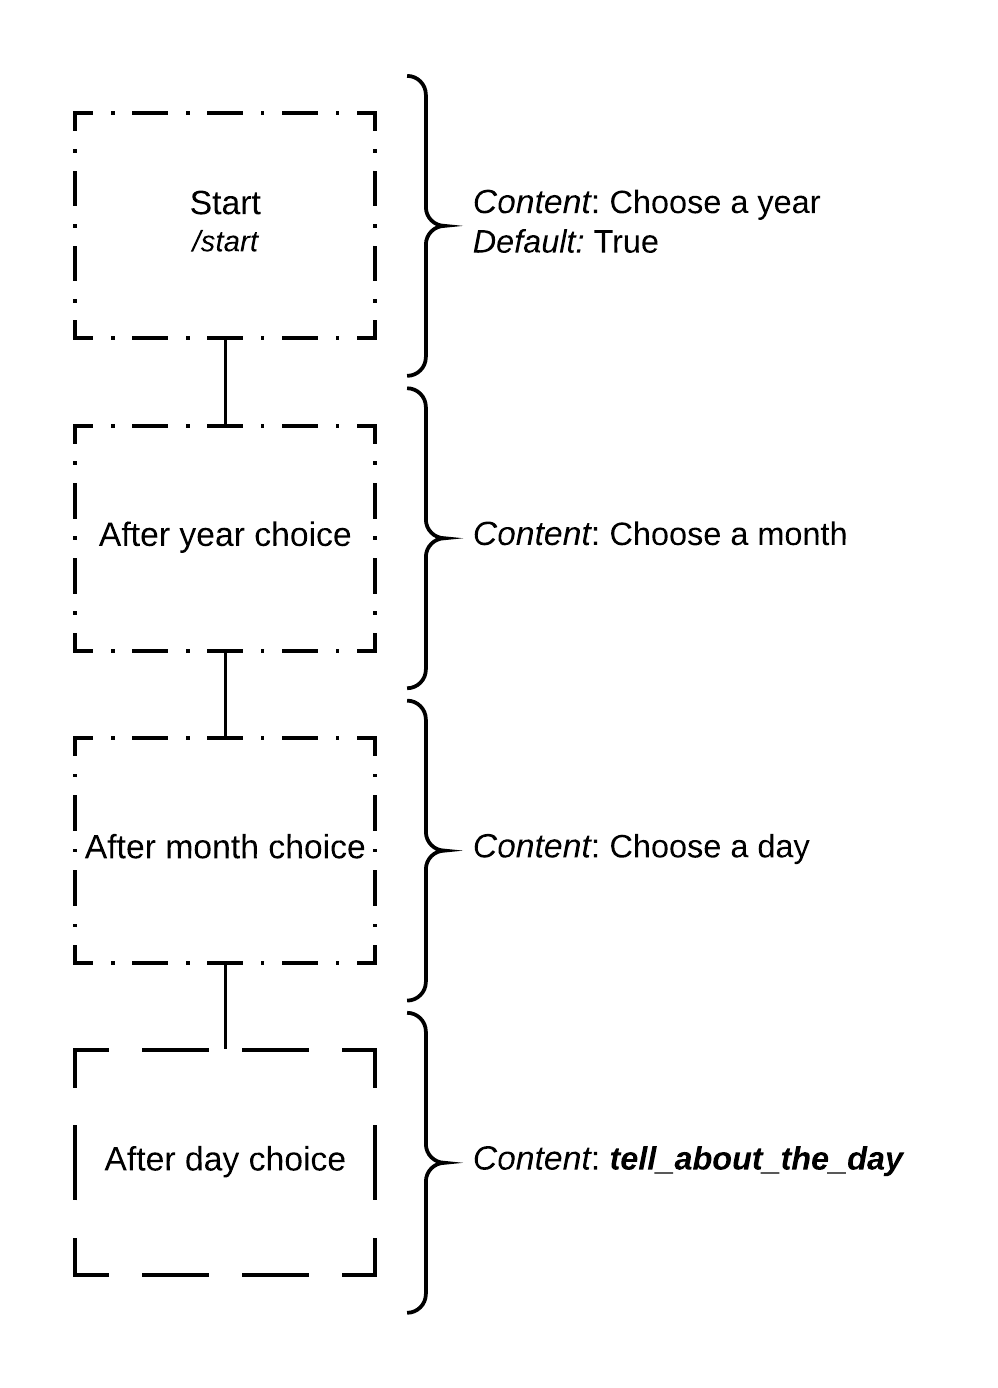
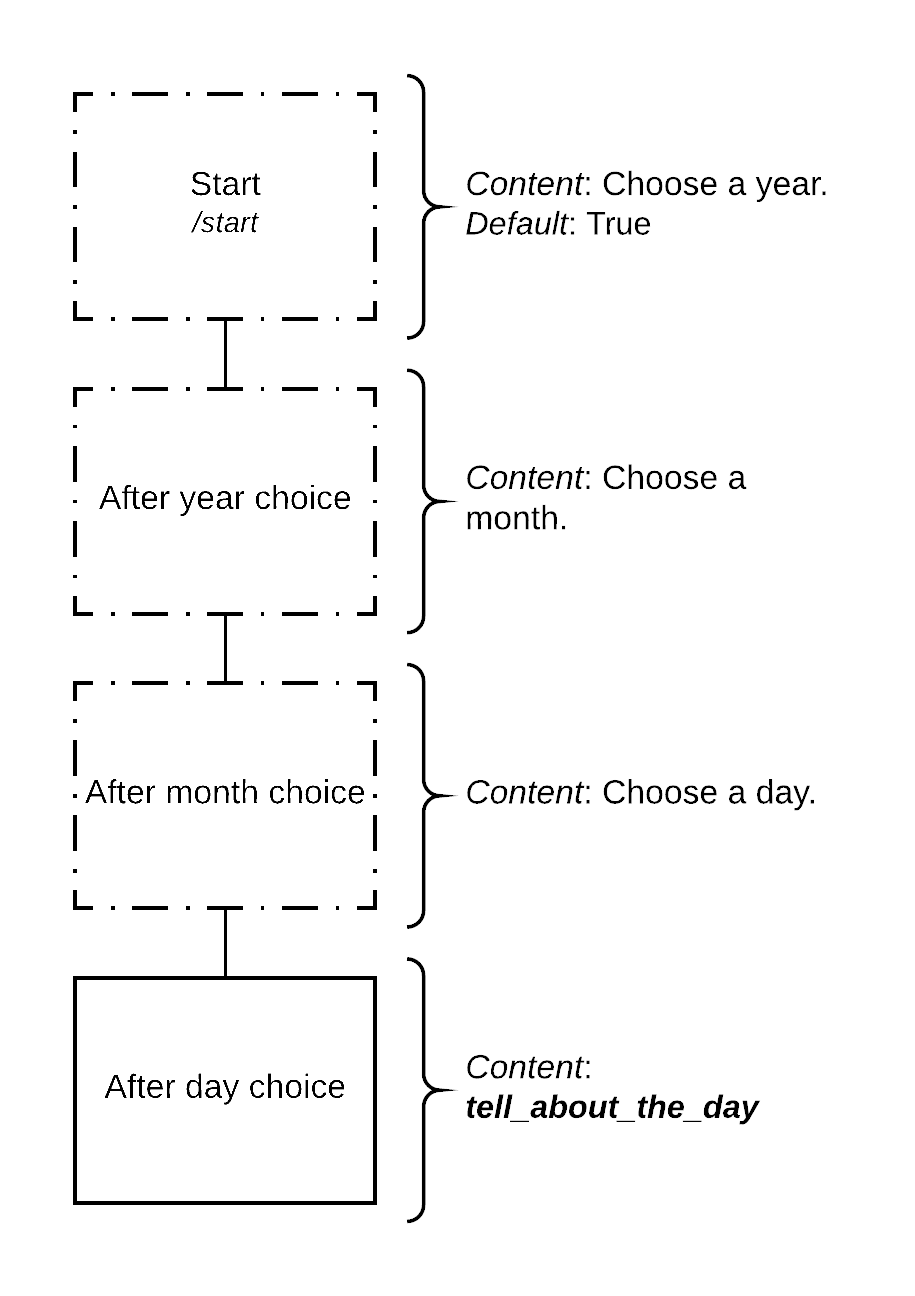
docs: flowcharts are now transparent

diff --git a/CHANGELOG.md b/CHANGELOG.md
@@ -10,10 +10,11 @@
    - Add a flowchart for `sample_bot.py` ([a698a4f1c7b85640011f861b9f2ae6ffa5dbd001](https://github.com/hearot/pyrubrum/commit/a698a4f1c7b85640011f861b9f2ae6ffa5dbd001))
    - Add a simple glossary ([0000e5ecc76f27f66833a28ef67836b5a338a353](https://github.com/hearot/pyrubrum/commit/0000e5ecc76f27f66833a28ef67836b5a338a353))
    - Add a simple quickstart menu ([3b4e5c7581ec4457bc8427068524954ec4920418](https://github.com/hearot/pyrubrum/commit/3b4e5c7581ec4457bc8427068524954ec4920418))
-   - Add a tip for opening a feature request
+   - Add a tip for opening a feature request ([909dfff2923e8b551d4500f48223659cd1d97ec4](https://github.com/hearot/pyrubrum/commit/909dfff2923e8b551d4500f48223659cd1d97ec4))
    - Add docstrings to `command_filter` and `deep_link_filter` ([b61629afa1d85f80fea4ec5030ab756d47714fea](https://github.com/hearot/pyrubrum/commit/b61629afa1d85f80fea4ec5030ab756d47714fea))
    - Add flowcharts ([c170d6aa8630e2f0575e79e0b10dcb5bab84a119](https://github.com/hearot/pyrubrum/commit/c170d6aa8630e2f0575e79e0b10dcb5bab84a119))
    - Finish writing the tutorial ([3ed75930ab0a57d84dad25880bdde86e1e7d66f4](https://github.com/hearot/pyrubrum/commit/3ed75930ab0a57d84dad25880bdde86e1e7d66f4))
+   - Flowcharts are now transparent
    - Include examples in the toctree ([737c1223e9ef4c95d9cac78c43e8820f7210069f](https://github.com/hearot/pyrubrum/commit/737c1223e9ef4c95d9cac78c43e8820f7210069f))
    - Update docstrings for `pass_parameterized_handler` ([aa5a7a7b884db15a0c1c83b6d43bbf078fa58d4d](https://github.com/hearot/pyrubrum/commit/aa5a7a7b884db15a0c1c83b6d43bbf078fa58d4d))
 

diff --git a/FEATURES.md b/FEATURES.md
@@ -6,10 +6,11 @@
    - Add a flowchart for `sample_bot.py` ([a698a4f1c7b85640011f861b9f2ae6ffa5dbd001](https://github.com/hearot/pyrubrum/commit/a698a4f1c7b85640011f861b9f2ae6ffa5dbd001))
    - Add a simple glossary ([0000e5ecc76f27f66833a28ef67836b5a338a353](https://github.com/hearot/pyrubrum/commit/0000e5ecc76f27f66833a28ef67836b5a338a353))
    - Add a simple quickstart menu ([3b4e5c7581ec4457bc8427068524954ec4920418](https://github.com/hearot/pyrubrum/commit/3b4e5c7581ec4457bc8427068524954ec4920418))
-   - Add a tip for opening a feature request
+   - Add a tip for opening a feature request ([909dfff2923e8b551d4500f48223659cd1d97ec4](https://github.com/hearot/pyrubrum/commit/909dfff2923e8b551d4500f48223659cd1d97ec4))
    - Add docstrings to `command_filter` and `deep_link_filter` ([b61629afa1d85f80fea4ec5030ab756d47714fea](https://github.com/hearot/pyrubrum/commit/b61629afa1d85f80fea4ec5030ab756d47714fea))
    - Add flowcharts ([c170d6aa8630e2f0575e79e0b10dcb5bab84a119](https://github.com/hearot/pyrubrum/commit/c170d6aa8630e2f0575e79e0b10dcb5bab84a119))
    - Finish writing the tutorial ([3ed75930ab0a57d84dad25880bdde86e1e7d66f4](https://github.com/hearot/pyrubrum/commit/3ed75930ab0a57d84dad25880bdde86e1e7d66f4))
+   - Flowcharts are now transparent
    - Include examples in the toctree ([737c1223e9ef4c95d9cac78c43e8820f7210069f](https://github.com/hearot/pyrubrum/commit/737c1223e9ef4c95d9cac78c43e8820f7210069f))
    - Update docstrings for `pass_parameterized_handler` ([aa5a7a7b884db15a0c1c83b6d43bbf078fa58d4d](https://github.com/hearot/pyrubrum/commit/aa5a7a7b884db15a0c1c83b6d43bbf078fa58d4d))
 
